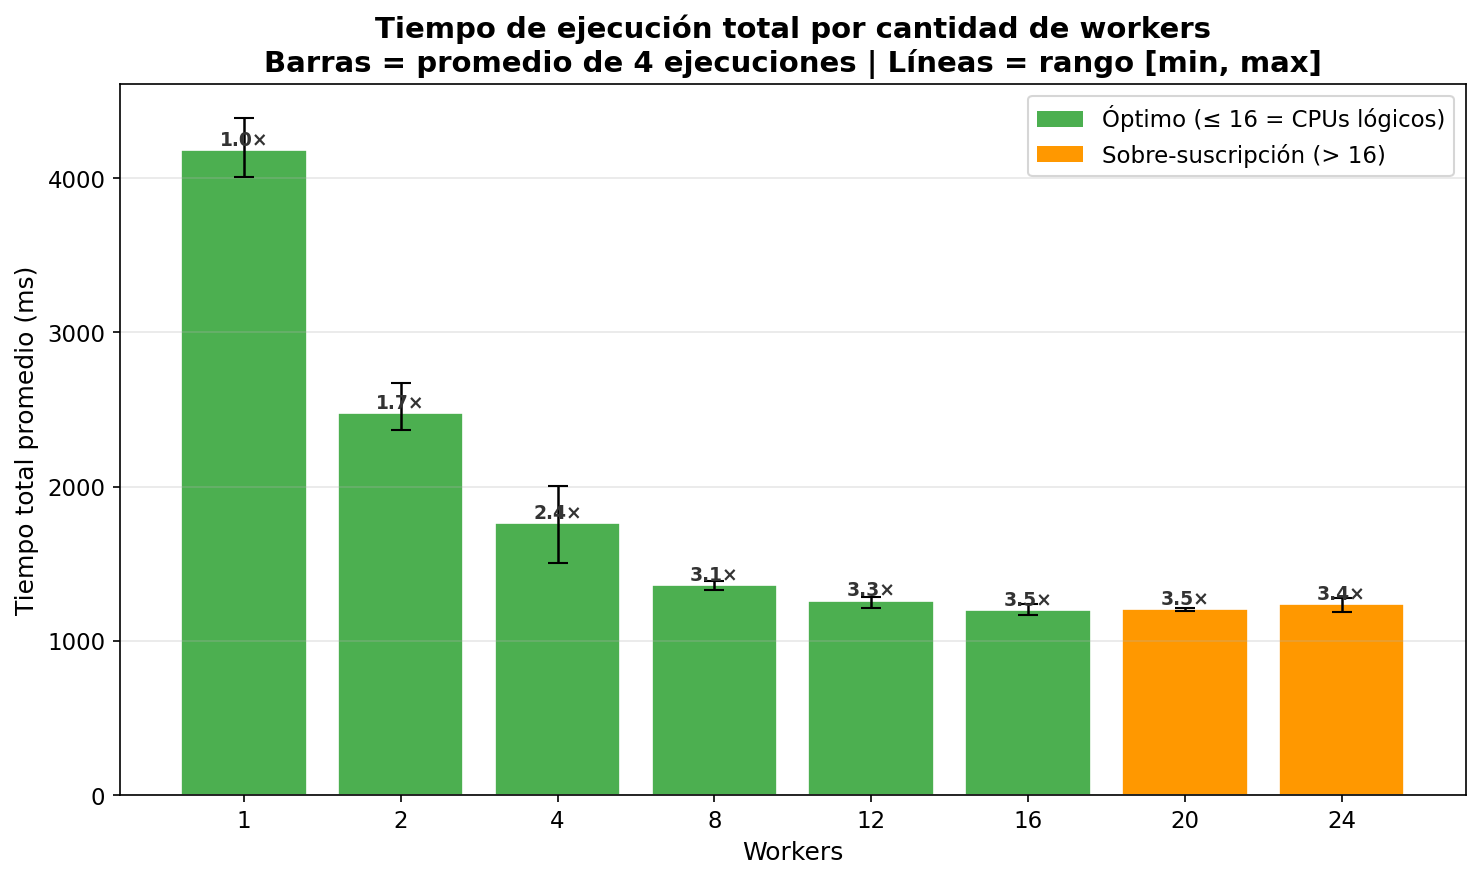
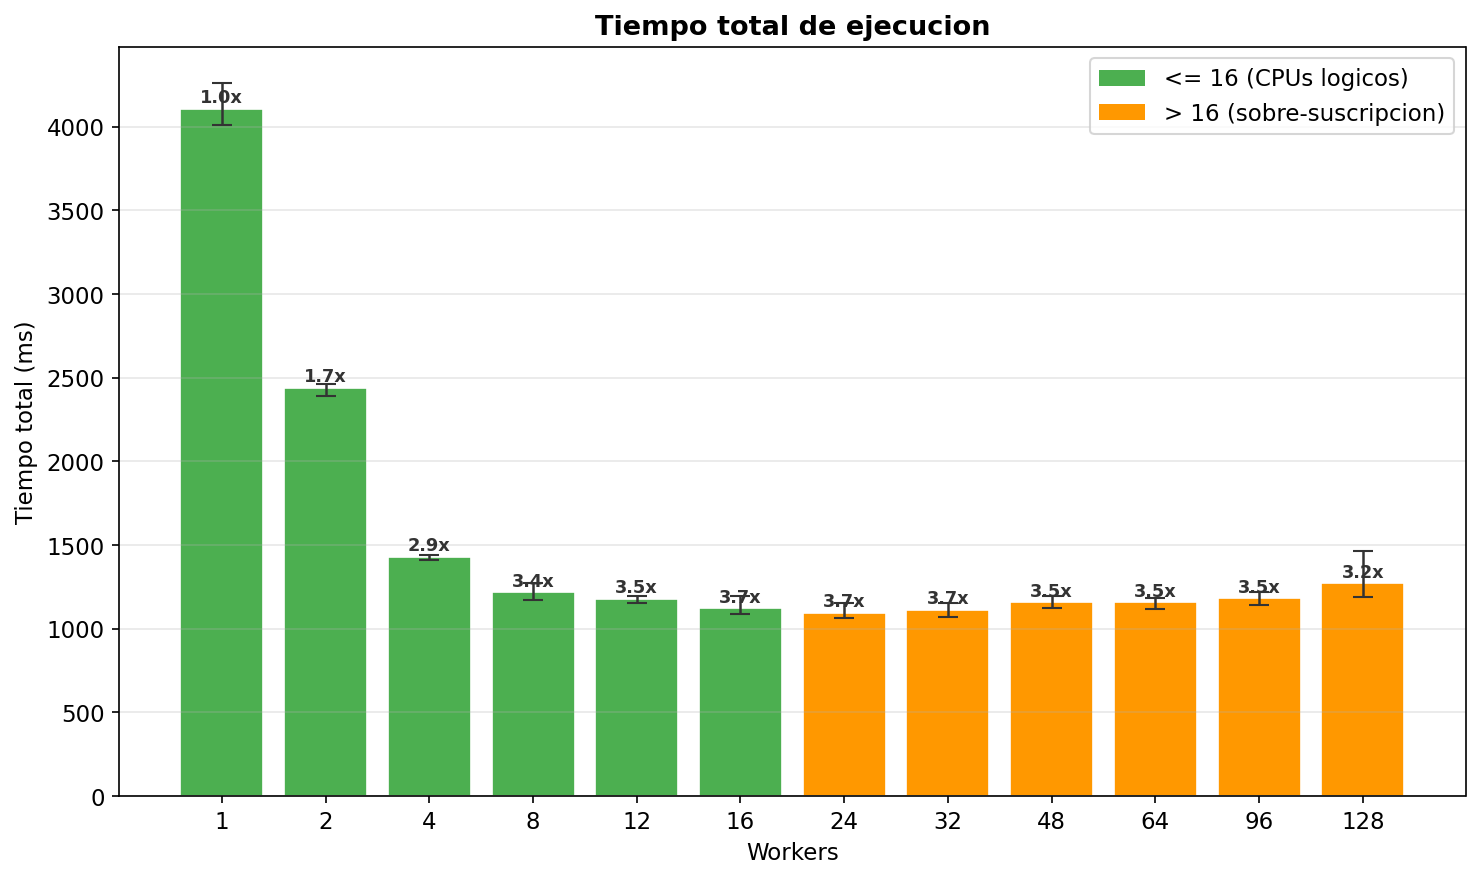
feat: graficas y resultados

diff --git a/python/graficar.py b/python/graficar.py
@@ -1,35 +1,32 @@
 """
-Genera gráficos del benchmark de entrenamiento concurrente.
+Genera 2 graficos del benchmark de entrenamiento concurrente.
 Entrada: go/benchmark_results.csv
-Salida:  3 gráficos PNG en la carpeta actual.
+Salida:  PNG en la carpeta actual.
 """
 
 import pandas as pd
 import matplotlib.pyplot as plt
-import matplotlib.ticker as ticker
 import numpy as np
 from pathlib import Path
 
-# ── Configuración ──────────────────────────────────────────────
+# -- Configuracion --
 CSV = Path(__file__).resolve().parent.parent / "go" / "benchmark_results.csv"
 OUT_DIR = Path(__file__).resolve().parent
 plt.rcParams.update({
     "figure.dpi": 150,
     "font.size": 11,
-    "axes.titlesize": 14,
-    "axes.labelsize": 12,
+    "axes.titlesize": 13,
+    "axes.labelsize": 11,
 })
 
-# ── Carga de datos ─────────────────────────────────────────────
+# -- Carga de datos --
 df = pd.read_csv(CSV)
 
-# Descartar primera ejecución de cada worker (cold start: JIT, cache fría)
+# Descartar run 1 de cada worker (cold start)
 df_clean = df[df["Run"] > 1].copy()
-# Reemplazar "N/A" por NaN en columnas de tiempo
 for col in ["CargaMs", "EntrenaMs"]:
     df_clean[col] = pd.to_numeric(df_clean[col], errors="coerce")
 
-# Agrupar por workers
 agg = df_clean.groupby("Workers").agg(
     TotalMean=("TotalMs", "mean"),
     TotalMin=("TotalMs", "min"),
@@ -38,7 +35,6 @@ agg = df_clean.groupby("Workers").agg(
     EntrenaMean=("EntrenaMs", "mean"),
 ).reset_index()
 
-# Tiempo base (1 worker)
 t1 = agg.loc[agg["Workers"] == 1, "TotalMean"].values[0]
 agg["SpeedUp"] = t1 / agg["TotalMean"]
 agg["Eficiencia"] = agg["SpeedUp"] / agg["Workers"]
@@ -46,77 +42,34 @@ agg["RestoMs"] = agg["TotalMean"] - agg["CargaMean"] - agg["EntrenaMean"]
 
 WORKERS = agg["Workers"].values
 
-# ── Gráfico 1: SpeedUp + Eficiencia ────────────────────────────
-fig1, ax1a = plt.subplots(figsize=(10, 6))
-
-# SpeedUp (eje izquierdo)
-color_speed = "#2196F3"
-ax1a.plot(WORKERS, agg["SpeedUp"], "o-", color=color_speed, linewidth=2,
-          markersize=8, label="SpeedUp real (T₁ / Tₙ)")
-ax1a.plot(WORKERS, WORKERS, "--", color="#90CAF9", linewidth=1.5,
-          label="SpeedUp ideal (lineal)")
-ax1a.set_xlabel("Workers")
-ax1a.set_ylabel("SpeedUp", color=color_speed)
-ax1a.tick_params(axis="y", labelcolor=color_speed)
-ax1a.set_ylim(0, max(WORKERS) + 2)
-ax1a.legend(loc="upper left")
-ax1a.grid(True, alpha=0.3)
-
-# Eficiencia (eje derecho)
-ax1b = ax1a.twinx()
-color_eff = "#FF5722"
-ax1b.plot(WORKERS, agg["Eficiencia"] * 100, "s--", color=color_eff,
-          linewidth=1.5, markersize=7, label="Eficiencia (SpeedUp / Workers)")
-ax1b.set_ylabel("Eficiencia (%)", color=color_eff)
-ax1b.tick_params(axis="y", labelcolor=color_eff)
-ax1b.set_ylim(0, 110)
-ax1b.legend(loc="upper right")
-
-# Anotar valores sobre los puntos
-for w, s, e in zip(WORKERS, agg["SpeedUp"], agg["Eficiencia"]):
-    ax1a.annotate(f"{s:.2f}×", (w, s), textcoords="offset points",
-                  xytext=(0, 12), ha="center", fontsize=8, color=color_speed)
-
-ax1a.set_xticks(WORKERS)
-ax1a.set_title(f"SpeedUp y Eficiencia — 10 000 épocas, {agg['TotalMean'].iloc[0]:.0f} ms base\n"
-               f"CPUs lógicos: 16 | Núcleos físicos: 8",
-               fontweight="bold")
-fig1.tight_layout()
-fig1.savefig(OUT_DIR / "grafico_speedup.png", bbox_inches="tight")
-print(f"[OK] {OUT_DIR / 'grafico_speedup.png'}")
-
-
-# ── Gráfico 2: Tiempo total con barras min/max ─────────────────
+# ================================================================
+# Grafico 1: Tiempo total con barras min/max
+# ================================================================
 fig2, ax2 = plt.subplots(figsize=(10, 6))
 
 colors = ["#4CAF50" if w <= 16 else "#FF9800" for w in WORKERS]
-bars = ax2.bar(WORKERS.astype(str), agg["TotalMean"], color=colors,
-               edgecolor="white", linewidth=0.8)
+ax2.bar(WORKERS.astype(str), agg["TotalMean"], color=colors,
+        edgecolor="white", linewidth=0.8)
 
-# Barras de error min/max
 yerr_low = agg["TotalMean"] - agg["TotalMin"]
 yerr_high = agg["TotalMax"] - agg["TotalMean"]
 ax2.errorbar(range(len(WORKERS)), agg["TotalMean"],
              yerr=[yerr_low, yerr_high], fmt="none",
-             ecolor="black", capsize=5, linewidth=1.2)
+             ecolor="#333333", capsize=5, linewidth=1.2)
 
-# Anotar speedup sobre cada barra
-for i, (w, val, s) in enumerate(zip(WORKERS, agg["TotalMean"], agg["SpeedUp"])):
-    ax2.text(i, val + 30, f"{s:.1f}×", ha="center", fontsize=9,
+for i, (val, s) in enumerate(zip(agg["TotalMean"], agg["SpeedUp"])):
+    ax2.text(i, val + 35, f"{s:.1f}x", ha="center", fontsize=8.5,
              fontweight="bold", color="#333333")
 
-ax2.set_ylabel("Tiempo total promedio (ms)")
+ax2.set_ylabel("Tiempo total (ms)")
 ax2.set_xlabel("Workers")
-ax2.set_title("Tiempo de ejecución total por cantidad de workers\n"
-              "Barras = promedio de 4 ejecuciones | Líneas = rango [min, max]",
-              fontweight="bold")
+ax2.set_title("Tiempo total de ejecucion", fontweight="bold")
 ax2.grid(axis="y", alpha=0.3)
 
-# Leyenda de colores
 from matplotlib.patches import Patch
 legend_elements = [
-    Patch(facecolor="#4CAF50", label="Óptimo (≤ 16 = CPUs lógicos)"),
-    Patch(facecolor="#FF9800", label="Sobre-suscripción (> 16)"),
+    Patch(facecolor="#4CAF50", label="<= 16 (CPUs logicos)"),
+    Patch(facecolor="#FF9800", label="> 16 (sobre-suscripcion)"),
 ]
 ax2.legend(handles=legend_elements, loc="upper right")
 fig2.tight_layout()
@@ -124,56 +77,56 @@ fig2.savefig(OUT_DIR / "grafico_tiempos.png", bbox_inches="tight")
 print(f"[OK] {OUT_DIR / 'grafico_tiempos.png'}")
 
 
-# ── Gráfico 3: Desglose del tiempo (stacked) ───────────────────
+# ================================================================
+# Grafico 2: Desglose por etapa (stacked)
+# ================================================================
 fig3, ax3 = plt.subplots(figsize=(10, 6))
 
 width = 0.55
-bottom_carga = np.zeros(len(WORKERS))
 bottom_entrena = agg["CargaMean"].values
 
 ax3.bar(WORKERS.astype(str), agg["CargaMean"], width, label="Carga CSV",
         color="#607D8B", edgecolor="white")
-ax3.bar(WORKERS.astype(str), agg["EntrenaMean"], width, bottom=bottom_carga,
+ax3.bar(WORKERS.astype(str), agg["EntrenaMean"], width, bottom=bottom_entrena,
         label="Entrenamiento", color="#03A9F4", edgecolor="white")
 ax3.bar(WORKERS.astype(str), agg["RestoMs"], width,
-        bottom=bottom_carga + agg["EntrenaMean"].values,
-        label="Dataset + Evaluación + Guardado", color="#CDDC39",
-        edgecolor="white")
+        bottom=bottom_entrena + agg["EntrenaMean"].values,
+        label="Dataset + Eval + Guardado", color="#CDDC39", edgecolor="white")
 
-# Porcentajes sobre cada segmento
-for i, w in enumerate(WORKERS):
+for i in range(len(WORKERS)):
     total = agg["TotalMean"].iloc[i]
     carga_pct = agg["CargaMean"].iloc[i] / total * 100
     entrena_pct = agg["EntrenaMean"].iloc[i] / total * 100
-    if carga_pct > 8:
+    if carga_pct > 7:
         ax3.text(i, agg["CargaMean"].iloc[i] / 2, f"{carga_pct:.0f}%",
-                 ha="center", va="center", fontsize=8, fontweight="bold",
-                 color="white")
-    if entrena_pct > 8:
+                 ha="center", va="center", fontsize=7.5, fontweight="bold", color="white")
+    if entrena_pct > 7:
         ax3.text(i, agg["CargaMean"].iloc[i] + agg["EntrenaMean"].iloc[i] / 2,
-                 f"{entrena_pct:.0f}%", ha="center", va="center", fontsize=8,
+                 f"{entrena_pct:.0f}%", ha="center", va="center", fontsize=7.5,
                  fontweight="bold", color="white")
 
 ax3.set_ylabel("Tiempo (ms)")
 ax3.set_xlabel("Workers")
-ax3.set_title("Desglose del tiempo de ejecución por etapa\n"
-              "Muestra cómo la carga (secuencial) crece en proporción al aumentar workers",
-              fontweight="bold")
+ax3.set_title("Desglose de tiempo por etapa", fontweight="bold")
 ax3.legend(loc="upper right")
 ax3.grid(axis="y", alpha=0.3)
 fig3.tight_layout()
 fig3.savefig(OUT_DIR / "grafico_desglose.png", bbox_inches="tight")
 print(f"[OK] {OUT_DIR / 'grafico_desglose.png'}")
 
-# ── Tabla resumen en consola ───────────────────────────────────
-print("\n" + "=" * 78)
-print(f"{'Workers':<10}{'Promedio':>10}{'Mín':>10}{'Máx':>10}{'SpeedUp':>10}{'Eficiencia':>12}")
-print("-" * 78)
+
+# ================================================================
+# Tabla resumen en consola
+# ================================================================
+print("\n" + "=" * 76)
+print(f"{'Workers':<10}{'Promedio':>10}{'Min':>10}{'Max':>10}{'SpeedUp':>10}{'Eficiencia':>12}")
+print("-" * 76)
 for _, row in agg.iterrows():
     print(f"{int(row['Workers']):<10}{row['TotalMean']:>8.0f} ms{row['TotalMin']:>8.0f} ms"
-          f"{row['TotalMax']:>8.0f} ms{row['SpeedUp']:>8.2f}×{row['Eficiencia']*100:>10.1f}%")
-print("=" * 78)
-print(f"\nLey de Amdahl estimada: fraccion secuencial ~ {agg['RestoMs'].iloc[0] / t1 * 100:.0f}%")
-print(f"SpeedUp maximo teorico (1/f_seq) = {1 / (agg['RestoMs'].iloc[0] / t1):.1f}x")
-print(f"SpeedUp real obtenido = {agg['SpeedUp'].max():.2f}x")
+          f"{row['TotalMax']:>8.0f} ms{row['SpeedUp']:>8.2f}x{row['Eficiencia']*100:>10.1f}%")
+print("=" * 76)
+f_seq = agg["RestoMs"].iloc[0] / t1
+print(f"\nFraccion secuencial (Amdahl): ~{f_seq * 100:.0f}%")
+print(f"SpeedUp maximo teorico: {1 / f_seq:.1f}x")
+print(f"SpeedUp real obtenido:   {agg['SpeedUp'].max():.2f}x")
 print("\nListo. Los graficos estan en la carpeta python/")

diff --git a/python/grafico_speedup_v2.py b/python/grafico_speedup_v2.py
@@ -1,0 +1,116 @@
+"""
+Grafico dedicado: SpeedUp + Eficiencia con escala adecuada.
+Para que se vea bien la curva real sin que la ideal (lineal) domine.
+"""
+
+import pandas as pd
+import matplotlib.pyplot as plt
+import matplotlib.ticker as ticker
+import numpy as np
+from pathlib import Path
+
+CSV = Path(__file__).resolve().parent.parent / "go" / "benchmark_results.csv"
+OUT_DIR = Path(__file__).resolve().parent
+
+plt.rcParams.update({"figure.dpi": 150, "font.size": 11})
+
+# -- Carga --
+df = pd.read_csv(CSV)
+df_clean = df[df["Run"] > 1].copy()
+for col in ["CargaMs", "EntrenaMs"]:
+    df_clean[col] = pd.to_numeric(df_clean[col], errors="coerce")
+
+agg = df_clean.groupby("Workers").agg(
+    TotalMean=("TotalMs", "mean"),
+    TotalMin=("TotalMs", "min"),
+    TotalMax=("TotalMs", "max"),
+    CargaMean=("CargaMs", "mean"),
+    EntrenaMean=("EntrenaMs", "mean"),
+).reset_index()
+
+t1 = agg.loc[agg["Workers"] == 1, "TotalMean"].values[0]
+agg["SpeedUp"] = t1 / agg["TotalMean"]
+agg["Eficiencia"] = agg["SpeedUp"] / agg["Workers"]
+
+WORKERS = agg["Workers"].values
+
+# -- Grafico --
+fig, ax1 = plt.subplots(figsize=(12, 7))
+
+# === SpeedUp (eje izquierdo) ===
+color_speed = "#1565C0"
+line1, = ax1.plot(WORKERS, agg["SpeedUp"], "D-", color=color_speed,
+                  linewidth=2.2, markersize=8, markerfacecolor="white",
+                  markeredgewidth=2, label="SpeedUp real")
+
+# Ideal lineal: solo hasta donde llega el speedup real, punteado fino
+ax1.plot(WORKERS, WORKERS, "--", color="#B0BEC5", linewidth=1, alpha=0.6,
+         label="SpeedUp ideal (lineal)")
+
+ax1.set_xlabel("Workers")
+ax1.set_ylabel("SpeedUp", color=color_speed, fontsize=13)
+ax1.tick_params(axis="y", labelcolor=color_speed)
+ax1.set_ylim(0, max(agg["SpeedUp"]) + 1.5)
+ax1.yaxis.set_major_locator(ticker.MultipleLocator(0.5))
+ax1.grid(True, alpha=0.25)
+
+# Anotar speedup sobre cada punto
+for w, s in zip(WORKERS, agg["SpeedUp"]):
+    offset_y = 16 if w < 32 else -16  # alternar arriba/abajo para no chocar
+    ax1.annotate(f"{s:.2f}", (w, s), textcoords="offset points",
+                 xytext=(0, offset_y), ha="center", fontsize=7.5,
+                 fontweight="bold", color=color_speed)
+
+# === Eficiencia (eje derecho) ===
+ax2 = ax1.twinx()
+color_eff = "#BF360C"
+line2, = ax2.plot(WORKERS, agg["Eficiencia"] * 100, "s--", color=color_eff,
+                  linewidth=2, markersize=7, markerfacecolor="white",
+                  markeredgewidth=1.5, label="Eficiencia")
+ax2.set_ylabel("Eficiencia (%)", color=color_eff, fontsize=13)
+ax2.tick_params(axis="y", labelcolor=color_eff)
+ax2.set_ylim(0, 110)
+
+# Anotar eficiencia
+for w, e in zip(WORKERS, agg["Eficiencia"]):
+    ax2.annotate(f"{e*100:.0f}%", (w, e * 100), textcoords="offset points",
+                 xytext=(0, 10), ha="center", fontsize=7, color=color_eff)
+
+# === Leyenda unificada ===
+lines = [line1, line2]
+labels = ["SpeedUp real", "Eficiencia"]
+ax1.legend(lines, labels, loc="center right", fontsize=10)
+
+# === Eje X: logaritmico pero con etiquetas exactas ===
+ax1.set_xscale("log", base=2)
+ax1.set_xticks(WORKERS)
+ax1.set_xticklabels([str(w) for w in WORKERS])
+ax1.set_xlim(0.9, max(WORKERS) * 1.15)
+ax1.xaxis.set_minor_formatter(ticker.NullFormatter())
+
+# === Zonas coloreadas de fondo ===
+ax1.axvspan(0.9, 16, alpha=0.04, color="green", label="_escala")
+ax1.axvspan(16, 24, alpha=0.04, color="orange", label="_meseta")
+ax1.axvspan(24, max(WORKERS) * 1.15, alpha=0.06, color="red", label="_degradacion")
+
+# Etiquetas de zona
+for x_start, x_end, label, y_pos in [
+    (1.3, 16, "Escala", 4.0),
+    (16, 24, "Meseta", 4.0),
+    (28, 128, "Degradacion", 2.0),
+]:
+    x_mid = np.sqrt(x_start * x_end)  # media geometrica en log
+    ax1.text(x_mid, y_pos, label, ha="center", fontsize=8.5,
+             fontstyle="italic", color="#555555",
+             bbox=dict(boxstyle="round,pad=0.2", facecolor="white",
+                       edgecolor="#CCCCCC", alpha=0.85))
+
+ax1.set_title("SpeedUp y Eficiencia", fontweight="bold", fontsize=14)
+
+fig.tight_layout()
+fig.savefig(OUT_DIR / "grafico_speedup_v2.png", bbox_inches="tight")
+print(f"[OK] {OUT_DIR / 'grafico_speedup_v2.png'}")
+
+# -- Resumen --
+print(f"\nPeak speedup: {agg['SpeedUp'].max():.2f}x con {int(agg.loc[agg['SpeedUp'].idxmax(), 'Workers'])} workers")
+print(f"128 workers es mas lento que 8: {agg[agg['Workers'] == 128]['SpeedUp'].values[0]:.2f}x vs {agg[agg['Workers'] == 8]['SpeedUp'].values[0]:.2f}x")